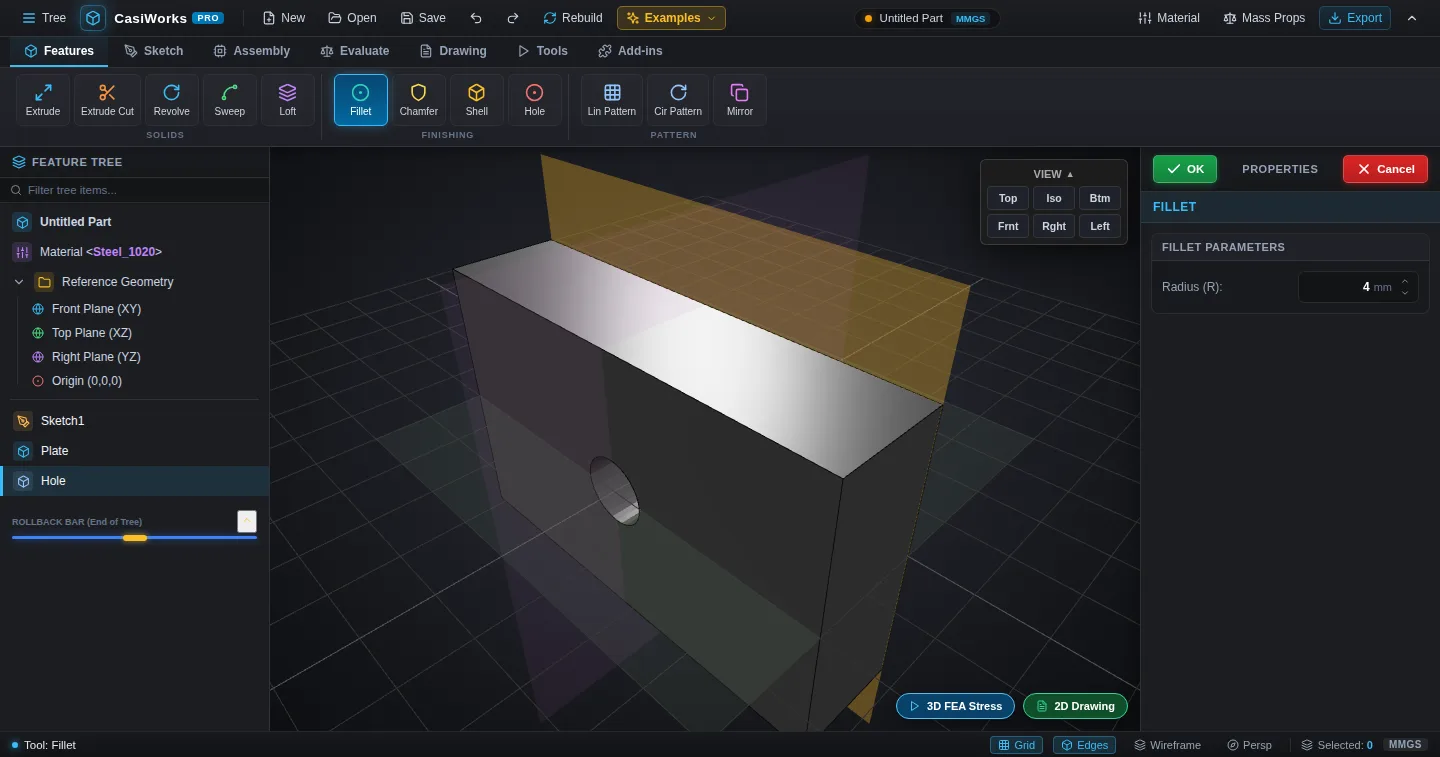
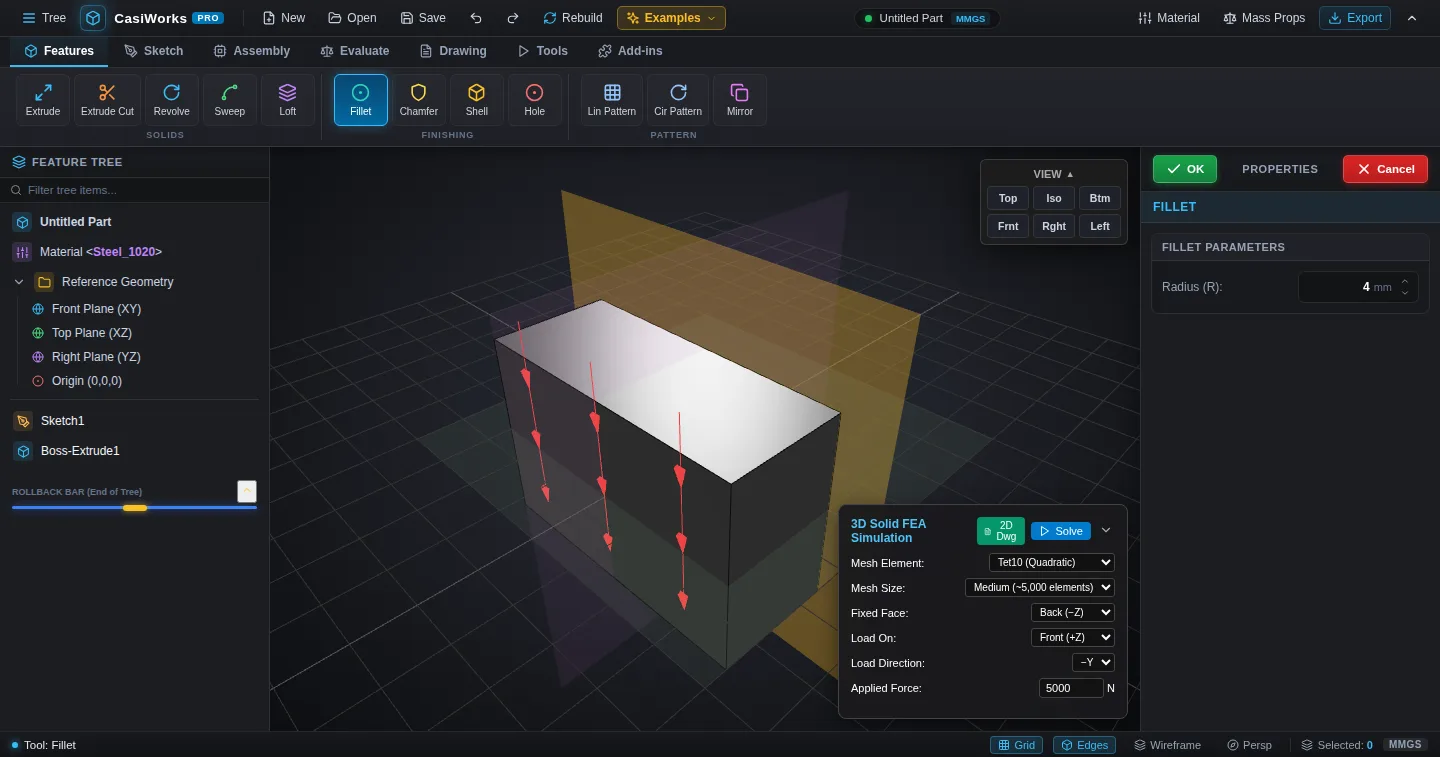
Decision: stay on the CasiWorks mesh kernel; OpenCascade is not adopted
The roadmap 2.1 spike measured the OpenCascade WebAssembly build that
replicad 1.2.1 uses: 22.9 MB raw, 7.2 MB gzip, 5.0 MB brotli. The whole
app today is 0.48 MB gzip. Its licence is LGPL-2.1 (replicad itself is
MIT). On that basis it was decided to keep the triangle-mesh kernel.

- ROADMAP: Phase 2 is marked not planned, with the decision and the
  figures. 2.1 is done; 2.2-2.9 are dropped. The baseline and the 6.2 and
  6.3 notes no longer wait for an exact kernel.
- Fillet / chamfer / shell warnings no longer point to "roadmap 2.6".
  They say what the mesh kernel cannot do and what to do instead.
  The API docs and README say the same.
- Tutorial: the chapter 9 message, the intro and Appendix B now present
  these as lasting limits with workarounds. Fillet screenshots refreshed.

diff --git a/docs/tutorial/index.html b/docs/tutorial/index.html
@@ -244,7 +244,7 @@ tr:last-child td { border-bottom: 0; }
     <li><b>Tips, warnings and checks</b>: blue boxes are shortcuts, amber boxes are limits you should know about, and green boxes tell you how to confirm your result.</li>
     <li><b>Exercise</b>: a short task to try on your own. Tick it off, and the contents list marks the chapter done. Your ticks are saved in this browser.</li>
   </ul>
-  <div class="callout warn"><span class="ic">⚠</span><div><b class="label">Know the limits</b><p>CasiWorks Pro builds solids from triangle meshes. Some commands that need exact edges and faces (fillet, chamfer, shell) are in the ribbon but are not applied yet. Each chapter says plainly where these limits are, and <a href="#limits">Appendix B</a> lists them all.</p></div></div>
+  <div class="callout warn"><span class="ic">⚠</span><div><b class="label">Know the limits</b><p>CasiWorks Pro builds solids from triangle meshes. Some commands that need exact edges and faces (fillet, chamfer, shell) are in the ribbon but are not applied. Each chapter says plainly where these limits are, and <a href="#limits">Appendix B</a> lists them all.</p></div></div>
 </section>
 
 <!-- ======================================================= PART I -->
@@ -539,7 +539,7 @@ npm run dev</pre></div>
     <div class="example-body split">
       <ol class="steps">
         <li>Click <b>Fillet</b>, set <b>Radius</b> to <code>4</code> and click <b>OK</b>.</li>
-        <li>The tree gets a <i>Fillet</i> entry with ⚠. Hover it to read the message: <i>Fillet not applied: rounding edges needs the exact geometry kernel</i>.</li>
+        <li>The tree gets a <i>Fillet</i> entry with ⚠. Hover it to read the message: <i>Fillet not applied: the mesh kernel cannot round edges; round the corner in the sketch with an arc instead</i>.</li>
         <li>The part is built without the fillet. Your setting is kept, so it will take effect once the kernel supports it.</li>
       </ol>
       <div>
@@ -548,7 +548,7 @@ npm run dev</pre></div>
       </div>
     </div>
   </div>
-  <div class="callout warn"><span class="ic">⚠</span><div><b class="label">Current limit</b><p>Fillet, chamfer and shell need real edges and faces, and the triangle-mesh kernel does not have them yet. Until it does, round corners in the sketch with a <b>Centre Arc</b>, and hollow a part by sketching the inner outline and using <b>Extrude Cut</b>.</p></div></div>
+  <div class="callout warn"><span class="ic">⚠</span><div><b class="label">Current limit</b><p>Fillet, chamfer and shell need real edges and faces, and the triangle-mesh kernel does not have them. Round corners in the sketch with a <b>Centre Arc</b>, and hollow a part by sketching the inner outline and using <b>Extrude Cut</b>.</p></div></div>
   <div class="exercise"><b>Exercise 9.</b> Draw a 60 × 40 rectangle with 5 mm rounded corners using four lines and four centre arcs, then extrude it. This is the sketch-level fillet that works today.<label><input type="checkbox" data-done="ch9"> I've done this</label></div>
 </section>
 
@@ -863,7 +863,7 @@ run(<span class="tok-s">'model.setMaterial'</span>, { key: <span class="tok-s">'
 
 <section class="chapter" id="limits" data-title="B · Current limits" data-part="ref" data-n="B">
   <h2 class="title">Appendix B · Current limits</h2>
-  <p>CasiWorks Pro is under active development. These are the parts of the app that do not yet do what their buttons suggest, so they do not catch you out on a real job:</p>
+  <p>These are the parts of the app that do not do what their buttons might suggest, so they do not catch you out on a real job:</p>
   <div class="table-wrap"><table>
     <tr><th>Area</th><th>What happens today</th><th>What to do instead</th></tr>
     <tr><td>Fillet, Chamfer, Shell</td><td>Added to the tree with ⚠ and not applied.</td><td>Round corners with sketch arcs, and hollow parts with Extrude Cut.</td></tr>
@@ -872,7 +872,7 @@ run(<span class="tok-s">'model.setMaterial'</span>, { key: <span class="tok-s">'
     <tr><td>FEA faces</td><td>Only the six bounding-box sides of the part.</td><td>Orient the part so the support and load are on outer faces.</td></tr>
     <tr><td>STEP and IGES export</td><td>Faceted (triangles), not exact curves.</td><td>Send a 2D drawing with machined parts.</td></tr>
   </table></div>
-  <p>All of these depend on the exact geometry kernel on the project roadmap (<code>ROADMAP.md</code>).</p>
+  <p>All of these come from the triangle-mesh kernel: it has triangles, not exact edges and faces. An exact geometry kernel is not planned, so treat these as lasting limits and use the workarounds.</p>
 </section>
 
 <section class="chapter" id="glossary" data-title="C · Glossary" data-part="ref" data-n="C">

diff --git a/src/features/FeatureEngine.ts b/src/features/FeatureEngine.ts
@@ -280,17 +280,17 @@ export class FeatureEngine {
   // the model unchanged until the exact kernel lands (ROADMAP Phase 2).
   _processFillet(_feature: AnyFeature, currentBody: Body): Body {
     if (!currentBody) return currentBody;
-    throw new Error('Fillet not applied: rounding edges needs the exact geometry kernel (roadmap 2.6)');
+    throw new Error('Fillet not applied: the mesh kernel cannot round edges; round the corner in the sketch with an arc instead');
   }
 
   _processChamfer(_feature: AnyFeature, currentBody: Body): Body {
     if (!currentBody) return currentBody;
-    throw new Error('Chamfer not applied: bevelling edges needs the exact geometry kernel (roadmap 2.6)');
+    throw new Error('Chamfer not applied: the mesh kernel cannot bevel edges; draw the bevel in the sketch instead');
   }
 
   _processShell(_feature: AnyFeature, currentBody: Body): Body {
     if (!currentBody) return currentBody;
-    throw new Error('Shell not applied: hollowing a solid needs the exact geometry kernel (roadmap Phase 2)');
+    throw new Error('Shell not applied: the mesh kernel cannot hollow a solid; sketch the inner outline and use Extrude Cut instead');
   }
 
   _processHole(feature: HoleFeature, currentBody: Body): Body {

diff --git a/src/api/CasiWorksAPI.ts b/src/api/CasiWorksAPI.ts
@@ -155,13 +155,13 @@ export interface FeaturesAPI {
   /** Revolve a sketch. Returns the new feature id. */
   revolve(spec: RevolveSpec): string;
   /**
-   * Add a fillet feature. Not applied yet: the rebuild reports a warning and the
-   * model is unchanged until the exact geometry kernel lands (roadmap 2.6).
+   * Add a fillet feature. Not applied: the mesh kernel cannot round edges, so the
+   * rebuild reports a warning and the model is unchanged.
    */
   fillet(spec: FilletSpec): string;
-  /** Add a chamfer feature. Not applied yet (see fillet). */
+  /** Add a chamfer feature. Not applied (see fillet). */
   chamfer(spec: ChamferSpec): string;
-  /** Add a shell feature. Not applied yet: needs the exact geometry kernel (roadmap Phase 2). */
+  /** Add a shell feature. Not applied: the mesh kernel cannot hollow a solid (see fillet). */
   shell(spec: ShellSpec): string;
   /** Change parameters (e.g. { depth: 40 }); id, type, sketchId and dependency links cannot change. */
   update(id: string, changes: FeatureChanges): void;

diff --git a/tests/geometry.test.ts b/tests/geometry.test.ts
@@ -175,7 +175,7 @@ test('Features: loft and sweep report missing input instead of inventing geometr
   assert.match(sweep.errors[0].error, /Sweep needs a path/);
 });
 
-const NOT_APPLIED = /not applied: .* needs the exact geometry kernel/;
+const NOT_APPLIED = /not applied: the mesh kernel cannot .*; .* instead/;
 
 test('Fillet, chamfer and shell report a warning and leave the model unchanged', () => {
   const base: FeatureData[] = [

diff --git a/ROADMAP.md b/ROADMAP.md
@@ -20,8 +20,8 @@ Status: `[x]` done · `[~]` in progress · `[ ]` not started
 |------|-------|
 | UI shell | Ribbon, feature tree with rollback, property panel, 3D viewport, dialogs |
 | Geometry | **Triangle-mesh kernel** (BSP CSG on polygons), verified by measured tests. No exact B-Rep yet (an earlier unused, incorrect B-Rep module was removed) |
-| Fillet / chamfer / shell | Not applied: the feature reports a rebuild warning and the model is unchanged (the mesh kernel cannot round, bevel or hollow correctly); needs Phase 2 |
-| STEP / IGES export | Standards-compliant faceted solids (every face, shared vertices); not exact surfaces — needs Phase 2 |
+| Fillet / chamfer / shell | Not applied: the feature reports a rebuild warning and the model is unchanged (the mesh kernel cannot round, bevel or hollow correctly); stays so — Phase 2 is not planned |
+| STEP / IGES export | Standards-compliant faceted solids (every face, shared vertices); not exact surfaces — stays so, Phase 2 is not planned |
 | Sketcher | Lines, rectangles, circles, points; constraint solver exists but has little UI |
 | Assemblies | Primitive shapes only (box, cylinder…), not real part documents |
 | Drawings / FEA | Work on the mesh; run on the UI thread |
@@ -30,8 +30,8 @@ Status: `[x]` done · `[~]` in progress · `[ ]` not started
 | Engineering | 31 Node tests, no linter, no CI, no type checking |
 
 The single biggest gap to a SOLIDWORKS-class product is the **exact geometric
-kernel** (Phase 2). Everything users judge as "real CAD" — clean cylinders,
-selectable edges, true fillets, exact STEP — depends on it.
+kernel**. Clean cylinders, selectable edges, true fillets and exact STEP depend on it.
+On 2026-11-16 it was decided not to build one (see Phase 2): CasiWorks stays on its mesh kernel.
 
 ---
 
@@ -88,19 +88,17 @@ the foundation of "API support": the UI becomes just one client of the API.
 - [x] **1.7** API reference docs generated from JSDoc, published with the app (`/api/`, `npm run docs:api`; undocumented public members fail a test)
 - [x] **1.8** Plugin manifest: load third-party add-ins that register commands and ribbon buttons (Add-ins tab and dialog, `api.plugins` in API 1.4, example `public/plugins/washer.js`; persisting installed add-ins across sessions is not done yet)
 
-## Phase 2 — Exact B-Rep kernel
+## Phase 2 — Exact B-Rep kernel (not planned)
 
-Replace the mesh kernel with an exact one, behind the same feature engine.
+**Decision (2026-11-16): CasiWorks keeps its own triangle-mesh kernel; OpenCascade is not adopted.**
+The 2.1 spike measured the OpenCascade WebAssembly build used by replicad (1.2.1): 22.9 MB raw,
+7.2 MB gzip, 5.0 MB brotli, against 0.48 MB gzip for the whole app today; licence LGPL-2.1
+(replicad itself MIT). The rest of the phase is dropped. Fillet, chamfer and shell stay
+"not applied" with a sketch workaround; STEP/IGES stay faceted; faces cannot be picked one by one.
+Items elsewhere that say they need exact geometry (3.9, 5.1, 6.2, 6.3) are limited to what the mesh kernel can do.
 
-- [ ] **2.1** Spike: evaluate OpenCascade via WebAssembly (opencascade.js / replicad): bundle size, load time, license (LGPL-2.1 — check obligations for commercial distribution)
-- [ ] **2.2** Kernel interface (`KernelAdapter`): extrude, revolve, boolean, fillet, tessellate — implemented by the current mesh kernel first
-- [ ] **2.3** Run the kernel in a Web Worker; UI stays responsive during rebuilds
-- [ ] **2.4** OCCT adapter: extrude + boolean; feature flag to switch kernels
-- [ ] **2.5** Face / edge / vertex picking mapped to real topology
-- [ ] **2.6** Edge-selective fillet and chamfer
-- [ ] **2.7** Exact STEP AP214/AP242 import and export via OCCT
-- [ ] **2.8** Persistent topological naming (features keep referring to the right face after upstream edits)
-- [ ] **2.9** Make OCCT the default; keep the mesh kernel as fallback
+- [x] **2.1** Spike: evaluate OpenCascade via WebAssembly: size and licence measured (above); not adopted
+- ~~**2.2–2.9**~~ Kernel interface, OCCT adapter, topology picking, edge fillet/chamfer, exact STEP, topological naming — not planned
 
 ## Phase 3 — Part modeling parity
 
@@ -134,8 +132,8 @@ Replace the mesh kernel with an exact one, behind the same feature engine.
 ## Phase 6 — Simulation
 
 - [x] **6.1** Solver in a Web Worker with progress and cancel (phases: meshing / solving; inline fallback where workers are unavailable)
-- [ ] **6.2** Meshing from exact geometry with local refinement (voxel mesh now sized from an element budget — Coarse / Medium / Fine — choosing the grid whose volume best matches the part, with the coverage reported and a warning beyond ±5%; thin-walled parts such as the sheet-metal enclosure still mesh far too thick until the exact kernel)
-- [ ] **6.3** Fixtures and loads picked on faces (the FEA panel chooses the fixed face, loaded face and load direction among the six bounding-box faces, shown on the model; picking real faces needs the exact kernel)
+- [ ] **6.2** Meshing from exact geometry with local refinement (voxel mesh now sized from an element budget — Coarse / Medium / Fine — choosing the grid whose volume best matches the part, with the coverage reported and a warning beyond ±5%; thin-walled parts such as the sheet-metal enclosure still mesh far too thick; local refinement on the mesh kernel only, exact geometry is not planned)
+- [ ] **6.3** Fixtures and loads picked on faces (the FEA panel chooses the fixed face, loaded face and load direction among the six bounding-box faces, shown on the model; picking single faces would need an exact kernel, which is not planned)
 - [ ] **6.4** Results: deformed shape, probes, report export (colour plot of von Mises / displacement on the model and exaggerated deformed shape done; probes and report to do)
 - [ ] **6.5** Modal (frequency) analysis
 

diff --git a/README.md b/README.md
@@ -131,7 +131,7 @@ bounds, and a closed-mesh check) in `tests/geometry.test.ts`.
 - **Booleans** (`csg.ts`): BSP-tree union, subtract and intersect.
 - **Mass properties**: exact for the mesh — volume, area, center of mass and inertia tensor (at the center of mass and at the origin) in SI units.
 
-**Not available yet** (needs the exact B-Rep kernel, roadmap Phase 2): fillet, chamfer
+**Not available** (CasiWorks uses its own mesh kernel; an exact B-Rep kernel is not planned): fillet, chamfer
 and shell are kept in the feature tree but report a "not applied" warning and leave
 the model unchanged; faces and edges cannot be selected individually; STEP/IGES
 export writes faceted (triangulated) geometry.
@@ -190,8 +190,8 @@ export writes faceted (triangulated) geometry.
   - AutoCAD **DXF** export structured into `VISIBLE`, `HIDDEN`, and `DIMENSION` layers.
 
 ### 7. CAD Data Exchange (STEP, IGES, STL, OBJ, DXF)
-All solid exports are triangulated meshes (exact curved surfaces need the exact
-kernel, roadmap 2.7). Every face is written; `tests/exchange.test.ts` checks each
+All solid exports are triangulated meshes (exact curved surfaces would need an
+exact B-Rep kernel, which is not planned). Every face is written; `tests/exchange.test.ts` checks each
 file against its standard's structure with parsers independent of the importer,
 then round-trips all examples with exact volume.
 - **STEP (ISO 10303-21, AP214; AP242 optional)**: faceted B-rep — `FACETED_BREP` /
